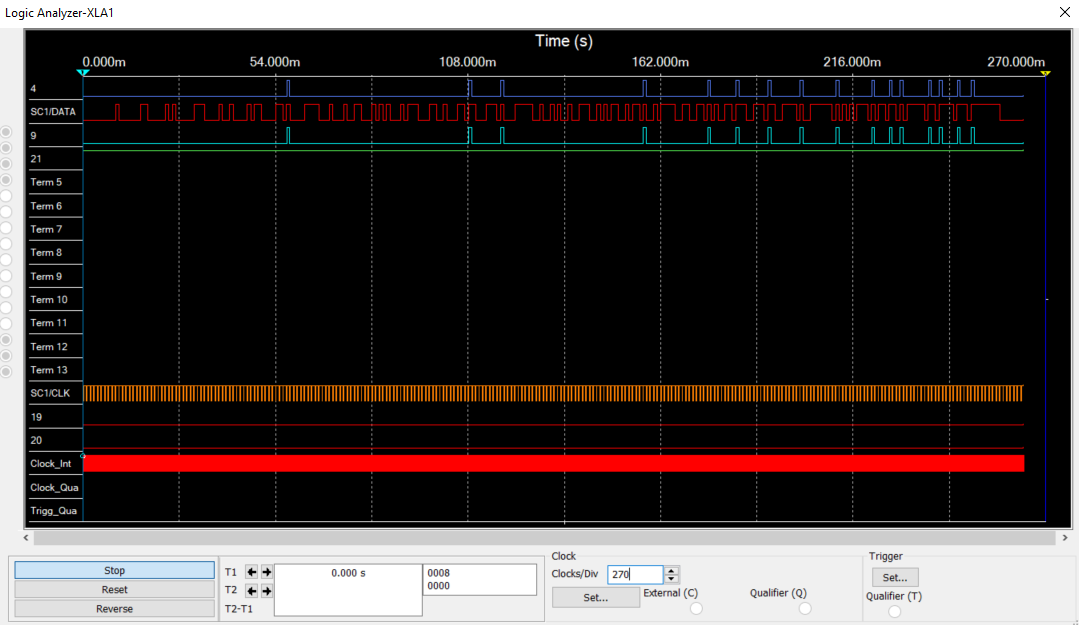
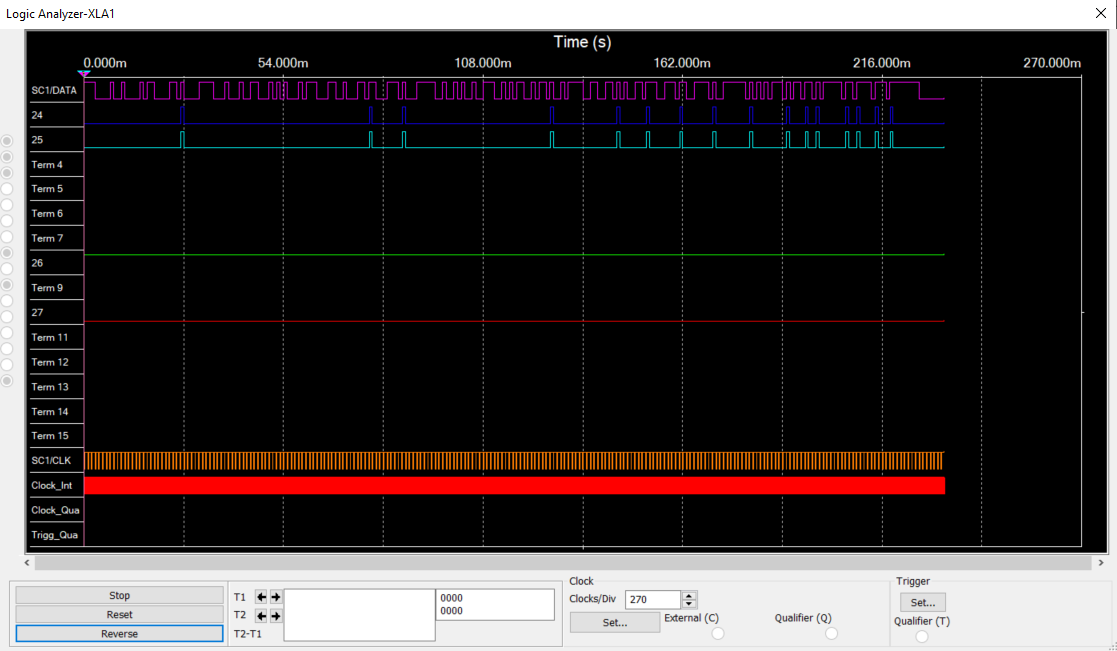
python script cleanup, 3c report update

Changed region(s): [[0.0, 0.0, 1.0, 1.0], [0.0, 0.0, 0.1223, 0.0304], [0.6728, 0.9424, 0.7646, 0.9728]]

diff --git a/cw3/lab3.tex b/cw3/lab3.tex
@@ -678,16 +678,55 @@ initial text=$ $, % sets the text that appears on the start arrow
 
     W celu dodania możliwości prostego resetowania układu do stanu początkowego łączymy
     piny reset na przerzutnikach z pinem resetowania układu.
+    
+    
+    \subsection{Testy w programie Multisim}
+    Układ testowy składa się z badanego układu, generatora słów binarnych oraz analizatora logicznego. Wyjście badanego układu jest porównywane z oczekiwanym wyjściem tylko gdy wyjście badanego układu i generatora jest w stanie stabilnym. Wykorzystano do tego wyjście READY generatora słów oraz prosty układ opóźniający RC.
+    \begin{figure}[h]
+        \centering
+        \includegraphics[width=\linewidth]{cw03/images/3c_test_schemat.png}
+        \caption{Schemat układu testującego}
+        \label{fig:gray_test}
+    \end{figure}
 
+    \pagebreak
+    Do generatora słów binarnych wygenerowano oczekiwane wyjście oraz cykl de Bruijna nad alfabetem $\{0, 1\}$ o długości $2^8$. Jest to sekwencja cykliczna która zawiera wszystkie podsłowa długości 8 dokładnie raz. Ponieważ jest to sekwencja cykliczna, aby móc testować w trybie "Burst" na końcu wygenerowanego wejścia powtórzono pierwsze 7 elementów sekwencji. \\ 
+    Wykorzystanie cyklu de Bruijna pozwoliło przetestować układ na wszystkich sekwencjach długości 8 co odpowiada przetestwaniu poprawnego rozpoznania każdej sekwencji 4 bitowej będąc w każdym możliwym stanie automau.\\
+    Żródło kodu generującego cykl de Bruijna: \url{https://en.wikipedia.org/wiki/De_Bruijn_sequence}
+    \begin{figure}[hp]
+        \centering
+        \includegraphics[width=0.8\linewidth]{cw03/images/3c_python.png}
+        \caption{Kod generujący wejście do generatora słów binarnych}
+        \label{fig:gray_xwb}
+    \end{figure}
+    \pagebreak
+    \begin{figure}[h!]
+        \centering
+        \includegraphics[width=0.8\linewidth]{cw03/images/3c_test_xwg.png}
+        \caption{Ustawienia generatora słów binarnych}
+        \label{fig:gray_xwb}
+    \end{figure}
+    
+    Poniżej przedstawiono wykres wygenerowany przez analizator stanów logicznych:
+    \begin{figure}[H]
+        \centering
+        \includegraphics[width=0.9\linewidth]{cw03/images/3c_test_xla.png}
+        \caption{Przebieg stanów logicznych}
+        \label{fig:gray_xla}
+    \end{figure}
+
+    Górny wykres to wejście (cykl de Bruijna), granatowy to wyjście oczekiwane, niebieski - wyjście uzyskane. Zielony wykres to równoważność
+    tych stanów. Wykres czerwony to wyjście z przerzutnika RS pozwalajacy sprawdzić czy kiedykolwiek podczas testu wykryto błąd - ponieważ na końcu przebiegu jest w stanie niskim, testy wykazały poprawność układu.  
 
     \subsection{Wnioski}
     \begin{enumerate}
         \item Istnieją różne sposoby wprowadzania danych. 
-        Zdecydowaliśmy się na dwa przyciski odpowiadające kropce i kresce, czego skutkiem jest konieczność opóźniania sygnału aby wyjście się ustabilizowało.
+        Zdecydowaliśmy się na dwa przyciski odpowiadające kropce i kresce, czego skutkiem jest konieczność opóźniania sygnału aby wejście się ustabilizowało.
         Alternatywnie można było użyć dwóch przełączników, gdzie jeden odpowiada za dane a drugi potwierdza wprowadzenie.
         Takie rozwiązanie pomimo że skutkuje prostrzym układem jest mało intuicyjne w użytkowaniu.
-        \item Opóźnienie można najprościej zaimplementować szeregowo połączonymi bramkami które razem nie modyfikuja wartości logicznej.
-        Bardziej typowym rozwiązaniem jest zastosowanie opóźnienia w oparciu o układ RC, kosztem większego skomplikowania schematu.
+        
+        
+        \item Opóźnienie można alternatywnie zaimplementować szeregowo połączonymi bramkami które razem nie modyfikuja wartości logicznej. Użylismy jednak układu RC który jest bardziej uniwersalny i pozwala dokładniej kontrolować czas opóźnienia.
     \end{enumerate}
 
     \subsection{Zastosowania}

diff --git a/cw3/src/test_script/main.py b/cw3/src/test_script/main.py
@@ -40,10 +40,13 @@ for i in range(n):
 
 final = final + final[:7]
 print("Data:")
-print("\n".join("0000000"+str(v) for v in final), end='')
+print("\n".join(f"{v:08x}" for v in final), end='')
 print()
 print("Initial:")
-print("0000")
+print(f"0000")
 print("Final:")
-print(str(len(final)).zfill(4))
+print(f"{len(final):04}")
+
+
+
 
